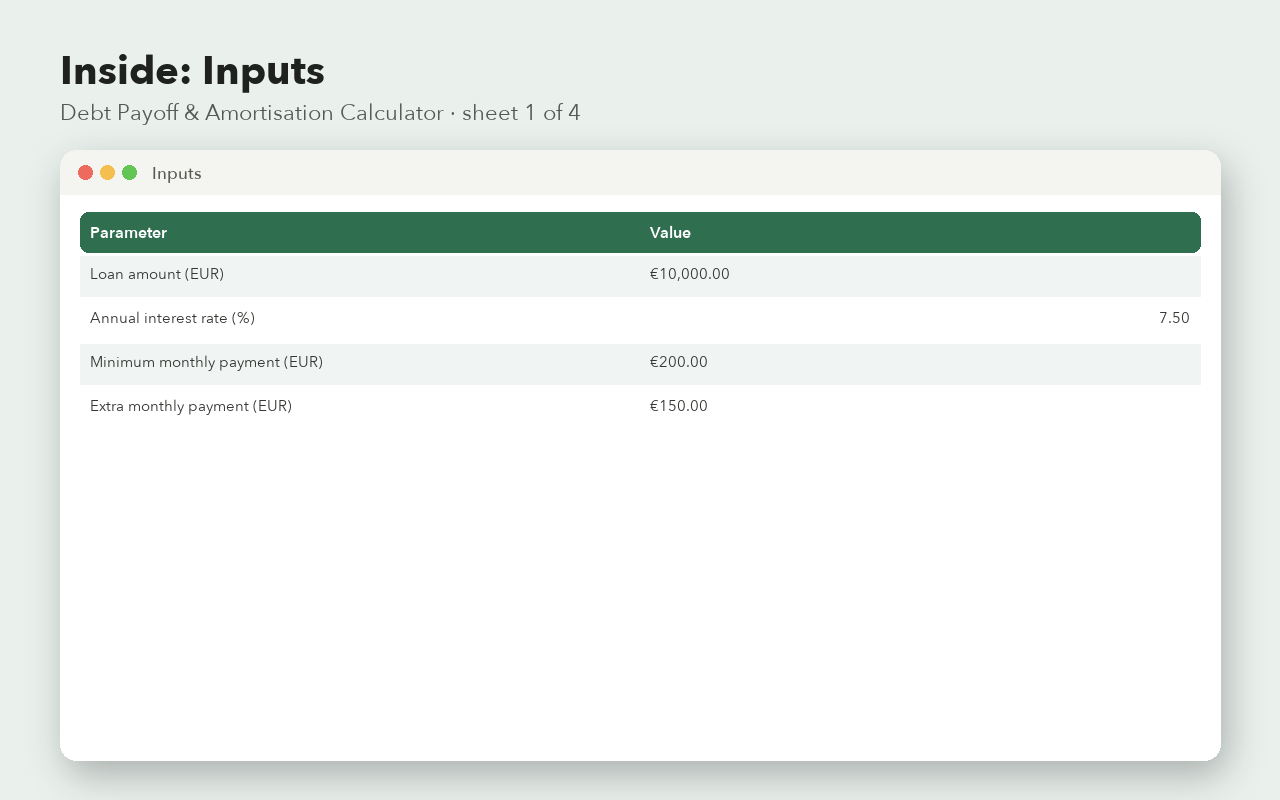
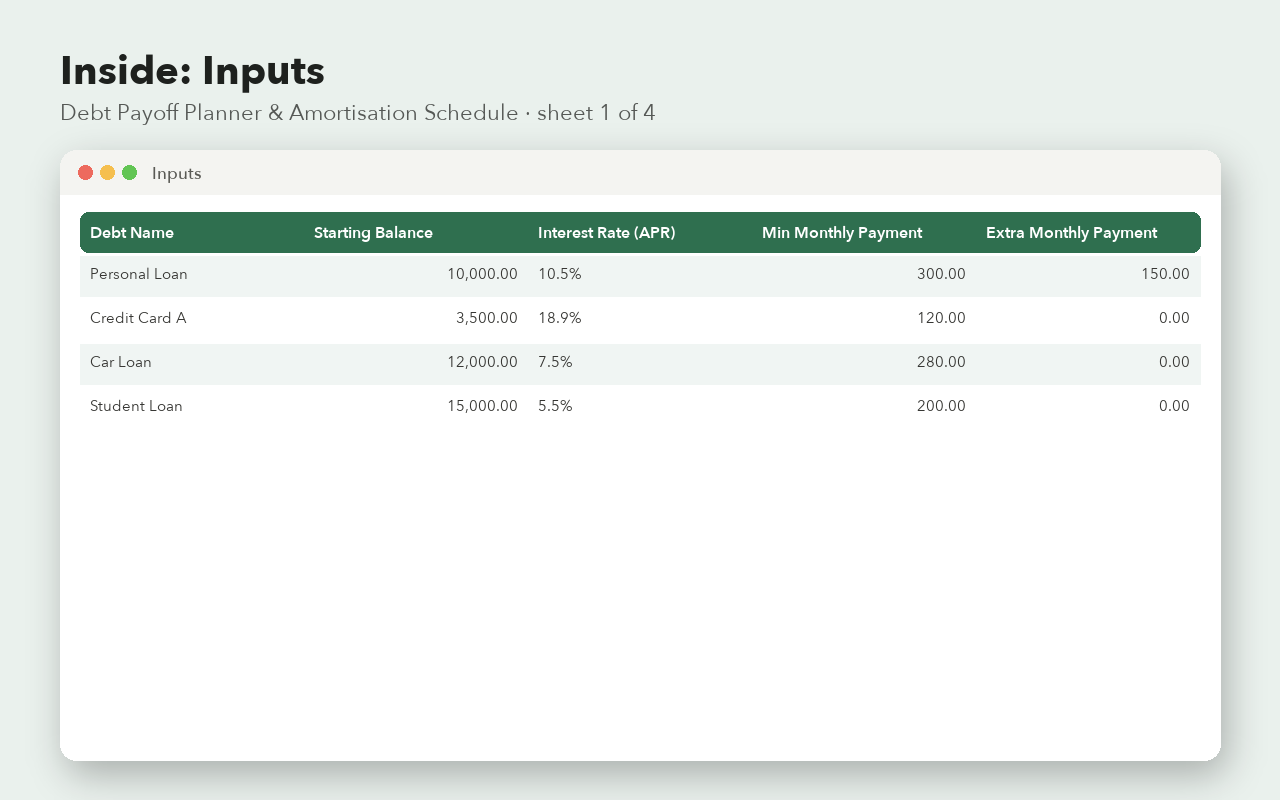
Site update 2026-10-10T20:02:47

diff --git a/p/debt-payoff.html b/p/debt-payoff.html
@@ -6,7 +6,7 @@ header a{color:var(--ink);text-decoration:none;font-weight:700;font-size:20px}h1
 .card img{width:100%;display:block}.card div{padding:14px 16px}.card a{color:var(--ink);text-decoration:none}
 .buy{display:inline-block;background:var(--accent);color:#fff!important;text-decoration:none;padding:14px 26px;border-radius:10px;font-weight:700;margin:16px 0}
 .hero img{width:100%;border-radius:14px;border:1px solid var(--line)}.gallery{display:grid;grid-template-columns:repeat(auto-fit,minmax(280px,1fr));gap:12px}
-.gallery img{width:100%;border-radius:10px;border:1px solid var(--line)}h2{margin-top:32px}.price{color:var(--mute);font-weight:600}footer{margin-top:48px;color:var(--mute);font-size:14px}</style></head><body><main><header><a href='/'>Gridwise</a><span class='price'>Spreadsheet templates for Excel &amp; Google Sheets</span></header><div class='hero'><img src='/img/debt-payoff-cover.png' alt='Debt Payoff Planner &amp; Tracker | Excel &amp; Google Sheets Dashboard'></div><h1>Debt Payoff Planner &amp; Tracker | Excel &amp; Google Sheets Dashboard</h1><p class='price'>€9.00 · instant download · Excel + Google Sheets</p><a class='buy' href='https://gridwiseco.gumroad.com/l/oztcfp'>Get it for €9.00</a><h2>What's inside</h2><ul><li><b>Instructions</b></li><li><b>Inputs</b> — Parameter, Value</li><li><b>Amortisation</b> — Month, Payment, Interest, Principal, Balance</li><li><b>Summary</b> — Metric, Value</li></ul><ul><li>Snowball &amp; avalanche payoff strategies</li><li>Interactive dynamic amortisation schedule</li><li>Clear visual payoff progress dashboard</li></ul><h2>See every sheet</h2><div class='gallery'><img src='/img/debt-payoff-pv-1.png' alt='Preview 1' loading='lazy'><img src='/img/debt-payoff-pv-2.png' alt='Preview 2' loading='lazy'><img src='/img/debt-payoff-pv-3.png' alt='Preview 3' loading='lazy'></div><h2>Details</h2><div><p><strong>Stop feeling overwhelmed by debt and struggling to track multiple balances.</strong><br>Organize all your debts in one centralized place, simulate payoff strategies (Snowball vs. Avalanche), track monthly progress, and view clear amortization schedules without complicated software or monthly subscriptions.<br>⚡ <strong>Instant Download</strong> | Works natively with <strong>Microsoft Excel</strong> &amp; <strong>Google Sheets</strong> (No subscription required).</p><hr><h3>🌟 WHY YOU’LL LOVE THIS SPREADSHEET</h3><ul><li><strong>Payoff Strategy Simulator:</strong> Compare debt snowball and debt avalanche methods to see which repayment order fits your budget best.</li><li><strong>Centralized Tracking:</strong> Monitor all your loan balances, interest rates, and minimum monthly payments in a single dashboard.</li><li><strong>Automated Progress Tracking:</strong> Enter your payments each month and watch your progress update instantly with built-in formulas and charts.</li><li><strong>One-Time Purchase:</strong> No monthly software fees, lifetime personal use, unlimited re-use year after year.</li></ul><hr><h3>📊 WHAT’S INSIDE (5 CORE TABS)</h3><ol><li>📖 <strong>Instructions &amp; Quick Setup:</strong> Clear step-by-step start guide with helpful tips.</li><li>⚙ <strong>Setup &amp; Debt Inventory:</strong> Centralized list for your loan names, principal balances, interest rates, and minimum payments.</li><li>📉 <strong>Payoff Calculator &amp; Strategy:</strong> Automated comparison of Snowball and Avalanche repayment methods.</li><li>💰 <strong>Monthly Payment Tracker:</strong> Record and monitor monthly debt payments and balance reductions.</li><li>📊 <strong>Annual Progress Dashboard:</strong> Visual charts, total debt countdown, and remaining balance summaries at a glance.</li></ol><hr><h3>📁 WHAT YOU WILL RECEIVE</h3><ul><li>1 x <strong>Microsoft Excel Master Template</strong> (<code>.xlsx</code>)</li><li>1 x <strong>Google Sheets Direct Access Link</strong> (Instant copy to your Drive)</li><li>1 x <strong>PDF Quick Start Guide</strong> (Step-by-step instructions with FAQ)</li><li>1 x <strong>Sample Data Copy</strong> (Pre-filled template for easy reference)</li></ul><hr><h3>💻 COMPATIBILITY &amp; TECHNICAL REQUIREMENTS</h3><ul><li>Works on <strong>Microsoft Excel</strong> (Excel 2016+, Office 365, Web version).</li><li>Works on <strong>Google Sheets</strong> (Free with any Google account).</li><li>Accessible on Desktop, Mac, PC, Tablet, and Mobile.</li></ul><hr><h3>⚡ HOW IT WORKS</h3><ol><li>Purchase &amp; instantly download your digital bundle.</li><li>Open the PDF guide to select your preferred format (Excel or Google Sheets).</li><li>Enter your loan details and start tracking your debt repayment progress instantly!</li></ol><hr><h3>⚖ LEGAL, COMPLIANCE &amp; REFUND POLICY</h3><p><strong>Digital Delivery:</strong> This product is delivered entirely digitally via instant download and direct cloud links. No physical item will be shipped.<br><strong>Non-Refundable Policy:</strong> Due to the digital nature of downloadable files and spreadsheet templates, all sales are final. Once downloaded or accessed, orders cannot be refunded, canceled, or exchanged.<br><strong>Tool-Only Disclaimer:</strong> This spreadsheet is provided for informational and educational purposes only and does not constitute professional financial, investment, tax, or legal advice. Users are solely responsible for their own financial decisions.</p><hr><h3>❓ QUESTIONS &amp; SUPPORT</h3><p>Have questions or need assistance? We are here to help! Send us a message and we'll reply within 24 hours.</p></div><a class='buy' href='https://gridwiseco.gumroad.com/l/oztcfp'>Get it for €9.00</a><h2>FAQ</h2><pre style='white-space:pre-wrap;font:inherit'># Frequently Asked Questions — Debt Payoff Calculator
+.gallery img{width:100%;border-radius:10px;border:1px solid var(--line)}h2{margin-top:32px}.price{color:var(--mute);font-weight:600}footer{margin-top:48px;color:var(--mute);font-size:14px}</style></head><body><main><header><a href='/'>Gridwise</a><span class='price'>Spreadsheet templates for Excel &amp; Google Sheets</span></header><div class='hero'><img src='/img/debt-payoff-cover.png' alt='Debt Payoff Planner &amp; Tracker | Excel &amp; Google Sheets Dashboard'></div><h1>Debt Payoff Planner &amp; Tracker | Excel &amp; Google Sheets Dashboard</h1><p class='price'>€9.00 · instant download · Excel + Google Sheets</p><a class='buy' href='https://gridwiseco.gumroad.com/l/oztcfp'>Get it for €9.00</a><h2>What's inside</h2><ul><li><b>Instructions</b></li><li><b>Inputs</b> — Debt Name, Starting Balance, Interest Rate (APR), Min Monthly Payment, Extra Monthly Payment</li><li><b>Summary</b> — Metric, Value</li><li><b>Amortisation</b> — Month, Beginning Balance, Total Payment, Interest Paid, Principal Paid</li></ul><ul><li>Snowball &amp; avalanche payoff strategies</li><li>Interactive dynamic amortisation schedule</li><li>Clear visual payoff progress dashboard</li></ul><h2>See every sheet</h2><div class='gallery'><img src='/img/debt-payoff-pv-1.png' alt='Preview 1' loading='lazy'><img src='/img/debt-payoff-pv-2.png' alt='Preview 2' loading='lazy'><img src='/img/debt-payoff-pv-3.png' alt='Preview 3' loading='lazy'></div><h2>Details</h2><div><p><strong>Stop feeling overwhelmed by debt and struggling to track multiple balances.</strong><br>Organize all your debts in one centralized place, simulate payoff strategies (Snowball vs. Avalanche), track monthly progress, and view clear amortization schedules without complicated software or monthly subscriptions.<br>⚡ <strong>Instant Download</strong> | Works natively with <strong>Microsoft Excel</strong> &amp; <strong>Google Sheets</strong> (No subscription required).</p><hr><h3>🌟 WHY YOU’LL LOVE THIS SPREADSHEET</h3><ul><li><strong>Payoff Strategy Simulator:</strong> Compare debt snowball and debt avalanche methods to see which repayment order fits your budget best.</li><li><strong>Centralized Tracking:</strong> Monitor all your loan balances, interest rates, and minimum monthly payments in a single dashboard.</li><li><strong>Automated Progress Tracking:</strong> Enter your payments each month and watch your progress update instantly with built-in formulas and charts.</li><li><strong>One-Time Purchase:</strong> No monthly software fees, lifetime personal use, unlimited re-use year after year.</li></ul><hr><h3>📊 WHAT’S INSIDE (5 CORE TABS)</h3><ol><li>📖 <strong>Instructions &amp; Quick Setup:</strong> Clear step-by-step start guide with helpful tips.</li><li>⚙ <strong>Setup &amp; Debt Inventory:</strong> Centralized list for your loan names, principal balances, interest rates, and minimum payments.</li><li>📉 <strong>Payoff Calculator &amp; Strategy:</strong> Automated comparison of Snowball and Avalanche repayment methods.</li><li>💰 <strong>Monthly Payment Tracker:</strong> Record and monitor monthly debt payments and balance reductions.</li><li>📊 <strong>Annual Progress Dashboard:</strong> Visual charts, total debt countdown, and remaining balance summaries at a glance.</li></ol><hr><h3>📁 WHAT YOU WILL RECEIVE</h3><ul><li>1 x <strong>Microsoft Excel Master Template</strong> (<code>.xlsx</code>)</li><li>1 x <strong>Google Sheets Direct Access Link</strong> (Instant copy to your Drive)</li><li>1 x <strong>PDF Quick Start Guide</strong> (Step-by-step instructions with FAQ)</li><li>1 x <strong>Sample Data Copy</strong> (Pre-filled template for easy reference)</li></ul><hr><h3>💻 COMPATIBILITY &amp; TECHNICAL REQUIREMENTS</h3><ul><li>Works on <strong>Microsoft Excel</strong> (Excel 2016+, Office 365, Web version).</li><li>Works on <strong>Google Sheets</strong> (Free with any Google account).</li><li>Accessible on Desktop, Mac, PC, Tablet, and Mobile.</li></ul><hr><h3>⚡ HOW IT WORKS</h3><ol><li>Purchase &amp; instantly download your digital bundle.</li><li>Open the PDF guide to select your preferred format (Excel or Google Sheets).</li><li>Enter your loan details and start tracking your debt repayment progress instantly!</li></ol><hr><h3>⚖ LEGAL, COMPLIANCE &amp; REFUND POLICY</h3><p><strong>Digital Delivery:</strong> This product is delivered entirely digitally via instant download and direct cloud links. No physical item will be shipped.<br><strong>Non-Refundable Policy:</strong> Due to the digital nature of downloadable files and spreadsheet templates, all sales are final. Once downloaded or accessed, orders cannot be refunded, canceled, or exchanged.<br><strong>Tool-Only Disclaimer:</strong> This spreadsheet is provided for informational and educational purposes only and does not constitute professional financial, investment, tax, or legal advice. Users are solely responsible for their own financial decisions.</p><hr><h3>❓ QUESTIONS &amp; SUPPORT</h3><p>Have questions or need assistance? We are here to help! Send us a message and we'll reply within 24 hours.</p></div><a class='buy' href='https://gridwiseco.gumroad.com/l/oztcfp'>Get it for €9.00</a><h2>FAQ</h2><pre style='white-space:pre-wrap;font:inherit'># Frequently Asked Questions — Debt Payoff Calculator
 
 ### 1. Does this calculator work in Google Sheets and Microsoft Excel?
 Yes, the Debt Payoff Calculator is fully optimized for both Microsoft Excel and Google Sheets. Simply upload the `.xlsx` file to Google Drive or open it directly in Excel.

diff --git a/p/cashflow-planner.html b/p/cashflow-planner.html
@@ -6,4 +6,4 @@ header a{color:var(--ink);text-decoration:none;font-weight:700;font-size:20px}h1
 .card img{width:100%;display:block}.card div{padding:14px 16px}.card a{color:var(--ink);text-decoration:none}
 .buy{display:inline-block;background:var(--accent);color:#fff!important;text-decoration:none;padding:14px 26px;border-radius:10px;font-weight:700;margin:16px 0}
 .hero img{width:100%;border-radius:14px;border:1px solid var(--line)}.gallery{display:grid;grid-template-columns:repeat(auto-fit,minmax(280px,1fr));gap:12px}
-.gallery img{width:100%;border-radius:10px;border:1px solid var(--line)}h2{margin-top:32px}.price{color:var(--mute);font-weight:600}footer{margin-top:48px;color:var(--mute);font-size:14px}</style></head><body><main><header><a href='/'>Gridwise</a><span class='price'>Spreadsheet templates for Excel &amp; Google Sheets</span></header><div class='hero'><img src='/img/cashflow-planner-cover.png' alt='Cash Flow Planner &amp; Small Business Budget Tracker | Excel &amp; Google Sheets'></div><h1>Cash Flow Planner &amp; Small Business Budget Tracker | Excel &amp; Google Sheets</h1><p class='price'>€9.00 · instant download · Excel + Google Sheets</p><a class='buy' href='https://gridwiseco.gumroad.com/l/zpghlp'>Get it for €9.00</a><h2>Details</h2><div><p><strong>Stop guessing your business cash flow and struggling with disorganized bookkeeping.</strong><br>Organize your revenue streams, track operating expenses, monitor monthly profit margins, and forecast your financial runway without complicated accounting software or monthly subscriptions.<br>⚡ <strong>Instant Download</strong> | Works natively with <strong>Microsoft Excel</strong> &amp; <strong>Google Sheets</strong> (No subscription required).</p><hr><h3>🌟 WHY YOU’LL LOVE THIS SPREADSHEET</h3><ul><div><strong>Automated Cash Flow Tracking:</strong> Enter your income and expenses; built-in formulas instantly calculate net operating income and monthly profit.</div><li><strong>Expense Categorization:</strong> Easily organize costs into custom categories to understand where your money goes.</li><li><strong>Monthly &amp; Annual Summaries:</strong> Monitor performance at a glance with clean, professional dashboard visuals.</li><li><strong>One-Time Purchase:</strong> No monthly software fees, lifetime personal use, unlimited re-use year after year.</li></ul><hr><h3>📊 WHAT’S INSIDE (5 CORE TABS)</h3><ol><li>📖 <strong>Instructions &amp; Quick Setup:</strong> Clear step-by-step start guide with helpful tips.</li><li>⚙ <strong>Setup &amp; Categories:</strong> Centralized list for your income sources, expense categories, and account details.</li><li>💰 <strong>Income Tracker:</strong> Log client payments, sales, and revenue transactions with monthly breakdowns.</li><li>📉 <strong>Expense Tracker:</strong> Record and categorize operating costs, subscriptions, and overhead.</li><li>📊 <strong>Annual Cash Flow Dashboard:</strong> Visual KPIs, net profit charts, and financial summaries at a glance.</li></ol><hr><h3>📁 WHAT YOU WILL RECEIVE</h3><ul><li>1 x <strong>Microsoft Excel Master Template</strong> (<code>.xlsx</code>)</li><li>1 x <strong>Google Sheets Direct Access Link</strong> (Instant copy to your Drive)</li><li>1 x <strong>PDF Quick Start Guide</strong> (Step-by-step instructions with FAQ)</li><li>1 x <strong>Sample Data Copy</strong> (Pre-filled template for easy reference)</li></ul><hr><h3>💻 COMPATIBILITY &amp; TECHNICAL REQUIREMENTS</h3><ul><li>Works on <strong>Microsoft Excel</strong> (Excel 2016+, Office 365, Web version).</li><li>Works on <strong>Google Sheets</strong> (Free with any Google account).</li><li>Accessible on Desktop, Mac, PC, Tablet, and Mobile.</li></ul><hr><h3>⚡ HOW IT WORKS</h3><ol><li>Purchase &amp; instantly download your digital bundle.</li><li>Open the PDF guide to select your preferred format (Excel or Google Sheets).</li><li>Enter your business financial details and start tracking cash flow instantly!</li></ol><hr><h3>⚖ LEGAL, COMPLIANCE &amp; REFUND POLICY</h3><p><strong>Digital Delivery:</strong> This product is delivered entirely digitally via instant download and direct cloud links. No physical item will be shipped.<br><strong>Non-Refundable Policy:</strong> Due to the digital nature of downloadable files and spreadsheet templates, all sales are final. Once downloaded or accessed, orders cannot be refunded, canceled, or exchanged.<br><strong>Tool-Only Disclaimer:</strong> This spreadsheet is provided for informational and educational purposes only and does not constitute professional financial, investment, tax, or legal advice. Users are solely responsible for their own financial decisions.</p><hr><h3>❓ QUESTIONS &amp; SUPPORT</h3><p>Have questions or need assistance? We are here to help! Send us a message and we'll reply within 24 hours.</p></div><a class='buy' href='https://gridwiseco.gumroad.com/l/zpghlp'>Get it for €9.00</a><footer>Gridwise templates are tools, not financial, tax or legal advice. Made with the help of AI and quality-checked.</footer></main></body></html>
+.gallery img{width:100%;border-radius:10px;border:1px solid var(--line)}h2{margin-top:32px}.price{color:var(--mute);font-weight:600}footer{margin-top:48px;color:var(--mute);font-size:14px}</style></head><body><main><header><a href='/'>Gridwise</a><span class='price'>Spreadsheet templates for Excel &amp; Google Sheets</span></header><div class='hero'><img src='/img/cashflow-planner-cover.png' alt='Cash Flow Planner &amp; Small Business Budget Tracker | Excel &amp; Google Sheets'></div><h1>Cash Flow Planner &amp; Small Business Budget Tracker | Excel &amp; Google Sheets</h1><p class='price'>€9.00 · instant download · Excel + Google Sheets</p><a class='buy' href='https://gridwiseco.gumroad.com/l/zpghlp'>Get it for €9.00</a><h2>What's inside</h2><ul><li><b>Instructions</b></li><li><b>12-Month Cash Flow</b> — Category / Month, Month 1, Month 2, Month 3, Month 4</li><li><b>Burn &amp; Runway Calculator</b> — Metric, Value, Notes &amp; Definitions</li></ul><ul><li>Track monthly income and expenses</li><li>Automated cash flow summary &amp; runway</li><li>Categorized P&amp;L and monthly trends</li></ul><h2>See every sheet</h2><div class='gallery'><img src='/img/cashflow-planner-pv-1.png' alt='Preview 1' loading='lazy'><img src='/img/cashflow-planner-pv-2.png' alt='Preview 2' loading='lazy'></div><h2>Details</h2><div><p><strong>Stop guessing your business cash flow and struggling with disorganized bookkeeping.</strong><br>Organize your revenue streams, track operating expenses, monitor monthly profit margins, and forecast your financial runway without complicated accounting software or monthly subscriptions.<br>⚡ <strong>Instant Download</strong> | Works natively with <strong>Microsoft Excel</strong> &amp; <strong>Google Sheets</strong> (No subscription required).</p><hr><h3>🌟 WHY YOU’LL LOVE THIS SPREADSHEET</h3><ul><div><strong>Automated Cash Flow Tracking:</strong> Enter your income and expenses; built-in formulas instantly calculate net operating income and monthly profit.</div><li><strong>Expense Categorization:</strong> Easily organize costs into custom categories to understand where your money goes.</li><li><strong>Monthly &amp; Annual Summaries:</strong> Monitor performance at a glance with clean, professional dashboard visuals.</li><li><strong>One-Time Purchase:</strong> No monthly software fees, lifetime personal use, unlimited re-use year after year.</li></ul><hr><h3>📊 WHAT’S INSIDE (5 CORE TABS)</h3><ol><li>📖 <strong>Instructions &amp; Quick Setup:</strong> Clear step-by-step start guide with helpful tips.</li><li>⚙ <strong>Setup &amp; Categories:</strong> Centralized list for your income sources, expense categories, and account details.</li><li>💰 <strong>Income Tracker:</strong> Log client payments, sales, and revenue transactions with monthly breakdowns.</li><li>📉 <strong>Expense Tracker:</strong> Record and categorize operating costs, subscriptions, and overhead.</li><li>📊 <strong>Annual Cash Flow Dashboard:</strong> Visual KPIs, net profit charts, and financial summaries at a glance.</li></ol><hr><h3>📁 WHAT YOU WILL RECEIVE</h3><ul><li>1 x <strong>Microsoft Excel Master Template</strong> (<code>.xlsx</code>)</li><li>1 x <strong>Google Sheets Direct Access Link</strong> (Instant copy to your Drive)</li><li>1 x <strong>PDF Quick Start Guide</strong> (Step-by-step instructions with FAQ)</li><li>1 x <strong>Sample Data Copy</strong> (Pre-filled template for easy reference)</li></ul><hr><h3>💻 COMPATIBILITY &amp; TECHNICAL REQUIREMENTS</h3><ul><li>Works on <strong>Microsoft Excel</strong> (Excel 2016+, Office 365, Web version).</li><li>Works on <strong>Google Sheets</strong> (Free with any Google account).</li><li>Accessible on Desktop, Mac, PC, Tablet, and Mobile.</li></ul><hr><h3>⚡ HOW IT WORKS</h3><ol><li>Purchase &amp; instantly download your digital bundle.</li><li>Open the PDF guide to select your preferred format (Excel or Google Sheets).</li><li>Enter your business financial details and start tracking cash flow instantly!</li></ol><hr><h3>⚖ LEGAL, COMPLIANCE &amp; REFUND POLICY</h3><p><strong>Digital Delivery:</strong> This product is delivered entirely digitally via instant download and direct cloud links. No physical item will be shipped.<br><strong>Non-Refundable Policy:</strong> Due to the digital nature of downloadable files and spreadsheet templates, all sales are final. Once downloaded or accessed, orders cannot be refunded, canceled, or exchanged.<br><strong>Tool-Only Disclaimer:</strong> This spreadsheet is provided for informational and educational purposes only and does not constitute professional financial, investment, tax, or legal advice. Users are solely responsible for their own financial decisions.</p><hr><h3>❓ QUESTIONS &amp; SUPPORT</h3><p>Have questions or need assistance? We are here to help! Send us a message and we'll reply within 24 hours.</p></div><a class='buy' href='https://gridwiseco.gumroad.com/l/zpghlp'>Get it for €9.00</a><footer>Gridwise templates are tools, not financial, tax or legal advice. Made with the help of AI and quality-checked.</footer></main></body></html>
